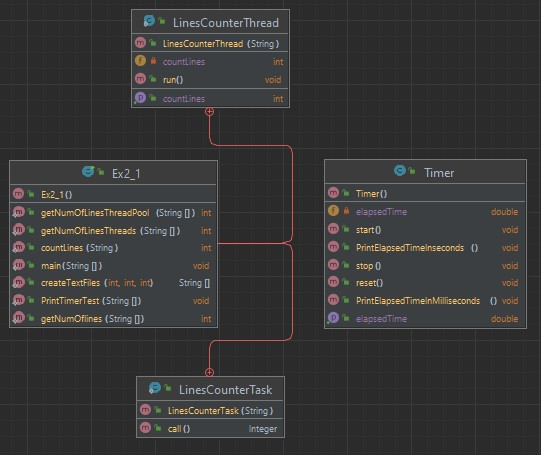
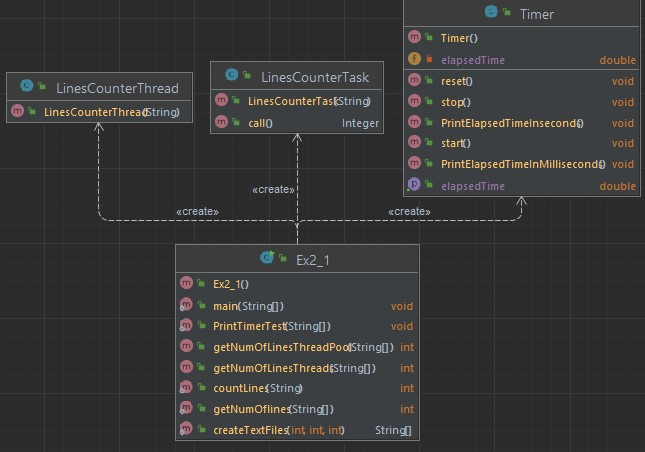
Update

Changed region(s): [[0.0, 0.0, 1.0, 0.9912], [0.7394, 0.0, 0.8577, 0.0619], [0.4436, 0.4646, 0.4732, 0.4956]]

diff --git a/Test/Ex2_1Test.java b/Test/Ex2_1Test.java
@@ -1,0 +1,17 @@
+package Test;
+
+import static org.junit.jupiter.api.Assertions.assertEquals;
+import static src.Ex2_1.Ex2_1.countLines;
+
+import org.junit.jupiter.api.Test;
+import src.Ex2_1.Ex2_1;
+
+public class Ex2_1Test {
+    @Test
+    public void testCountLines() {
+        String[] filename = new String[]{"Test/FileTest/file_1.txt"};
+        int expectedNumLines = 3;
+        int actualNumLines = Ex2_1.countLines(filename[0]);
+        assertEquals(expectedNumLines, actualNumLines);
+    }
+}

diff --git a/src/Ex2_1/LinesCounterThread.java b/src/Ex2_1/LinesCounterThread.java
@@ -8,9 +8,22 @@ public class LinesCounterThread extends Thread {
     private final String Path;
     private int countLines;
 
+
+
     public LinesCounterThread(String Path) {
         this.Path = Path;
         this.countLines = 0;
 
+    }
+    public String getPath() {
+        return Path;
+    }
+
+    public int getCountLines() {
+        return countLines;
+    }
+
+    public void setCountLines(int countLines) {
+        this.countLines = countLines;
     }
 }

diff --git a/src/Ex2_1/Ex2_1.java b/src/Ex2_1/Ex2_1.java
@@ -116,7 +116,7 @@ public class Ex2_1 {
             } catch (InterruptedException e) {
                 e.printStackTrace();
             }
-            counter += l.countLines;
+            counter += l.getCountLines();
         }
 
         return counter;

diff --git a/out/production/Ex2_oop/README.md b/out/production/Ex2_oop/README.md
@@ -1,6 +1,34 @@
 # Ex2_oop
+
+## Part 1:
+
+### Ex2_1 
+The Ex2_1 class provides methods for counting the number of lines in a file or array of files. It has four main methods:
+
+  1. `countLines(String filename)` - this method takes a file name as input and returns the number of lines in the file.
+
+  2. `getNumOflines(String[] fileNames)` - this method takes an array of file names and returns the total number of lines in all of the files.
+
+  3. `createTextFiles(int n, int seed, int bound)` - this method creates n text files with a specified number of lines. The number of lines in each file is determined    by   a random number generator with a given seed and bound.
+
+  4. `getNumOfLinesThreadPool(String[] fileNames)` and `getNumOfLinesThreads(String[] fileNames)` - these methods take an array of file names and return the total           number   of lines in all of the files, using either a thread pool or individual threads, respectively.
+### LinesCounterTask
+The `LinesCounterTask` class implements the `Callable` interface and is used to count the number of lines in a file as part of a thread pool. It has a single field, `Path`, which represents the file path of the file to be processed. The `call()` method of this class returns the number of lines in the file specified by the Path field. This method simply calls the countLines() method of the Ex2_1 class, passing in the Path field as an argument.
+### LinesCounterThread 
+The `LinesCounterThread` class extends the `Thread` class and is used to count the number of lines in a file using individual threads. It has two fields: `Path`, which represents the file path of the file to be processed, and countLines, which stores the number of lines in the file. The `LinesCounterThread` class does not have a `run()` method implemented, so it will not perform any actions when started as a thread. To count the number of lines in a file using this class, you would need to 
+implement the `run()` method and call the appropriate method to count the lines in the file within it.
+### Timer
+The Timer class is a simple utility class for measuring the elapsed time of a process. It has four main methods:
+
+  1.`start()` - this method records the current time as the start time.
+  2.`stop()` - this method records the current time as the end time and calculates the elapsed time as the difference between the start time and end time.
+  3.`getElapsedTime()` - this method returns the elapsed time in nanoseconds.
+  4.`PrintElapsedTimeInMilliseconds()` and `PrintElapsedTimeInseconds()` - these methods print the elapsed time in milliseconds and seconds, respectively.
+
+The` Timer` class also has a `reset()` method that can be called to reset the start time, end time, and elapsed time to their initial values.
+
 ## UML Diagrams:
-![](https://github.com/ibrahim3999/Ex2_oop/blob/master/src/UML/Pic/UML.jpg)
+![](https://github.com/ibrahim3999/Ex2_oop/blob/master/src/Ex2_1/UML/Pic/UML.jpg)
 
 ## Test
 ![](https://github.com/ibrahim3999/Ex2_oop/blob/master/Pic/RunTimeTest/1000_10000.jpg)
